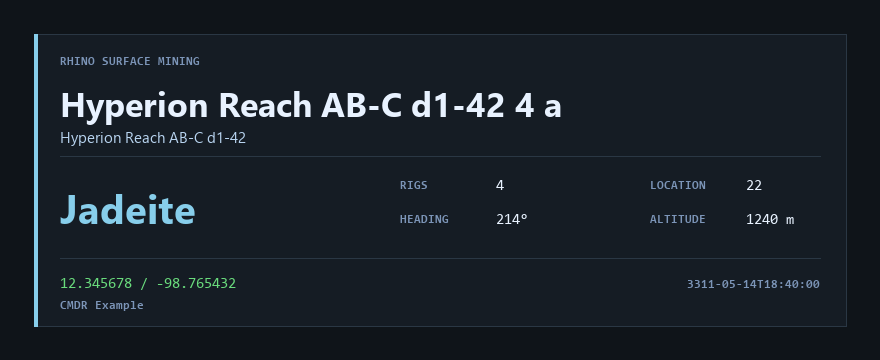
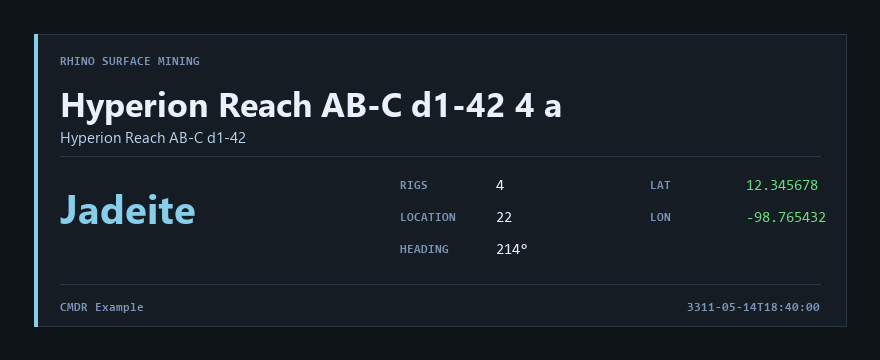
2.0.1: coordinates on the card, where altitude was
You are landed when you press the button, so altitude was the ship's height
above a patch of ground measured from that same patch of ground. Always about
zero, and it never told anyone anything.

The coordinates take the space. They are the one thing on the card that cannot
be worked out again afterwards - the material is a choice, the rigs are a
count, the location is a number in the target panel, but nobody remembers
where they put the ship. Latitude and longitude get a line each: on one line
they read as a single long number that has to be split before it can be used.

Commander and timestamp share the bottom line now. Stacked, the commander sat
on the border of the sheet.

Found while rendering: the cell list was called `right` and shadowed the right
margin, so the rule under the block was drawn with a list of tuples for an
x-coordinate. It raised rather than drawing something wrong, which is the good
version of that mistake.

diff --git a/rs_core/spotcard.py b/rs_core/spotcard.py
@@ -58,11 +58,15 @@ def _fmt(value, suffix="", dash="—"):
     return str(value)
 
 
-def _coords(spot):
-    lat, lon = spot.get("latitude"), spot.get("longitude")
-    if lat is None or lon is None:
-        return "not on the surface when marked"
-    return f"{float(lat):.6f} / {float(lon):.6f}"
+def _degrees(value):
+    """One coordinate, or a dash.
+
+    Six decimals, which is what the game gives and roughly a metre - enough to
+    put the ship back on the same patch.
+    """
+    if value is None:
+        return "-"
+    return f"{float(value):.6f}"
 
 
 def _fit(draw, text, font, width):
@@ -109,32 +113,45 @@ def render(spot, out_path=None):
     draw.text((x, y), _fit(draw, spot.get("commodity") or "no material", huge, 300),
               font=huge, fill=ACCENT)
 
-    cells = [
-        ("Rigs", _fmt(spot.get("rigs"))),
-        ("Location", _fmt(spot.get("location_index"))),
-        ("Heading", _fmt(spot.get("heading"), "°")),
-        ("Altitude", _fmt(f"{float(spot['altitude']):.0f}" if spot.get("altitude") is not None else None, " m")),
-    ]
+    # Altitude used to sit in the fourth cell. You are landed when you press
+    # the button, so it was the ship's height above a patch of ground measured
+    # from that same patch of ground - always about zero, and it never told
+    # anyone anything. The coordinates take its place: they are the one thing
+    # on the card you cannot work out again afterwards.
+    #
+    # Two columns. The left is what you set before you pressed, the right is
+    # where you were, one coordinate per line - a lat and a lon on one line is
+    # a single long number that has to be read twice to be split.
     grid_x = x + 340
-    for index, (key, value) in enumerate(cells):
-        col, line = index % 2, index // 2
-        cx = grid_x + col * 250
-        cy = y + line * 34
-        draw.text((cx, cy), key.upper(), font=mono_small, fill=MUTED)
-        draw.text((cx + 96, cy - 2), value, font=mono, fill=INK)
+    settings = [
+        ("Rigs", _fmt(spot.get("rigs")), INK),
+        ("Location", _fmt(spot.get("location_index")), INK),
+        ("Heading", _fmt(spot.get("heading"), "°"), INK),
+    ]
+    position = [
+        ("Lat", _degrees(spot.get("latitude")), SECOND),
+        ("Lon", _degrees(spot.get("longitude")), SECOND),
+    ]
+    for col, cells in enumerate((settings, position)):
+        for row, (key, value, colour) in enumerate(cells):
+            cx = grid_x + col * 250
+            cy = y + row * 32
+            draw.text((cx, cy), key.upper(), font=mono_small, fill=MUTED)
+            draw.text((cx + 96, cy - 2), value, font=mono, fill=colour)
 
-    y += 78
+    y += 104
     draw.line([x, y, right, y], fill=RULE)
     y += 18
 
-    draw.text((x, y), _coords(spot), font=mono, fill=SECOND)
+    # Both on one line: who and when are the same kind of fact, and stacking
+    # them put the commander on the border of the sheet.
+    if spot.get("commander"):
+        draw.text((x, y), "CMDR " + spot["commander"], font=mono_small, fill=MUTED)
     marked = spot.get("marked_at")
     if marked:
         stamp = str(marked).split(".")[0]
-        draw.text((right - draw.textlength(stamp, font=mono_small), y + 3),
+        draw.text((right - draw.textlength(stamp, font=mono_small), y),
                   stamp, font=mono_small, fill=MUTED)
-    if spot.get("commander"):
-        draw.text((x, y + 24), "CMDR " + spot["commander"], font=mono_small, fill=MUTED)
 
     if out_path is None:
         out_path = _free(os.path.join(card_dir(spot.get("system")), filename(spot)))

diff --git a/rs_core/update.py b/rs_core/update.py
@@ -23,7 +23,7 @@ import zipfile
 
 from rs_core.logging import logger
 
-VERSION = "2.0.0"
+VERSION = "2.0.1"
 
 # For testing the update path without publishing a throwaway release: set
 # RHINOSPOTTER_VERSION to something older and the running plugin will see the

diff --git a/CHANGELOG.md b/CHANGELOG.md
@@ -1,5 +1,18 @@
 # Changelog
 
+## 2.0.1
+
+**The card carries coordinates instead of altitude.** You are landed when you
+press the button, so altitude was the ship's height above a patch of ground
+measured from that same patch of ground - always about zero, and it never told
+anyone anything. The latitude and longitude take its place, one per line,
+because a lat and a lon on one line is a single long number that has to be
+read twice to be split. They are the one thing on the card that cannot be
+worked out again afterwards.
+
+**The empty scan window leads with the instruction.** "FSS the system, or the
+planet you are heading for", then the reason under it.
+
 ## 2.0.0
 
 **RhinoScan.** A second button. It lists the landable bodies of the system you
